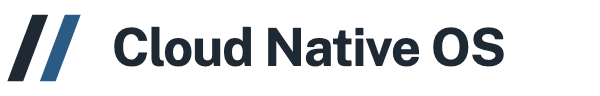
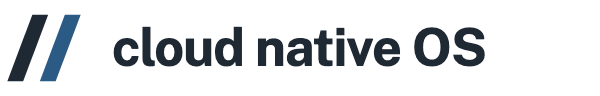
fix(brand): write the name as "cloud native OS"
The brand is "cloud native OS", in lower case except OS. The site, the
docs, the code comments and the lockups used "Cloud Native OS", and the
lockup label was set in capitals. All of them now use "cloud native OS".

The site label no longer forces upper case, and its letter spacing is
reduced to suit lower case. The four lockup PNGs are rendered again from
the SVGs, with Public Sans at the same pixel sizes.

Two places keep the old form: the title of the published talk "What
Should a Cloud Native OS Look Like?", and a dated quote of the original
brief in research/reproducible-machine-state/README.md.

Co-developed-by: Claude Opus 5.5 <noreply@anthropic.com>

Changed region(s): [[0.18, 0.25, 0.84, 0.7188]]

diff --git a/site/why.html b/site/why.html
@@ -1,1 +1,1 @@
-<p>Back in 2023 I joined the Kairos team. At the time I had never heard of immutable operating systems, so I was eager to learn. Beyond the documentation of each project, I could not find many sources. I wanted a bird's-eye view, one that would show me the patterns and not only how each project does things on its own. The first post I read was my colleague Nicolas Vermande's <a href="https://www.spectrocloud.com/blog/k3os-alternatives-the-best-container-os-for-edge-kubernetes">k3OS Alternatives: Top Container OS for Edge Kubernetes</a> on the Spectro Cloud blog. It is a great read if you already know the projects it mentions, but it assumes you do. And if you are reading it today, it has aged.</p><p>Another good source I found was the CNCF <a href="https://github.com/cncf/tag-runtime/blob/main/wgs/spos/charter/index.md">Special Purpose Operating System Working Group</a>, under what was then TAG Runtime. I joined, and I had a great time learning about the different projects. We even put together a couple of panels: <a href="https://www.youtube.com/watch?v=uD-T9LdfvrM">one at KubeCon</a>, and <a href="https://osseu2024.sched.com/event/1ej4e/panel-discussion-do-one-thing-and-do-it-well-special-purpose-oses-apply-the-unix-app-philosophy-to-the-whole-os-danielle-tal-microsoft-mauro-morales-spectro-cloud-felipe-huici-unikraft-gmbh-frederic-crozat-suse-erik-nordmark-zededa">one at Open Source Summit Europe in Vienna</a>. We also met as a birds-of-a-feather group at FOSDEM for three years in a row (<a href="https://archive.fosdem.org/2024/schedule/event/fosdem-2024-3561-special-purpose-operating-systems-the-next-step-in-os-evolution-or-one-trick-ponies-/">2024</a>, <a href="https://archive.fosdem.org/2025/schedule/event/fosdem-2025-6716-special-purpose-operating-systems-meetup-bof/">2025</a>, <a href="https://fosdem.org/2026/schedule/event/GX3DNS-special-purpose_linux_operating_systems_meetup_bof/">2026</a>). When the CNCF restructured its TAGs, the group was closed, and since then I have been looking for ways to keep its spirit alive. Still, none of this gave a newcomer the overview I had wanted back in 2023.</p><p>My first attempt at that overview was a talk at Cloud Native Days Italy in May 2026, <a href="https://cloudnativedaysitaly.org/talk/what-should-a-cloud-native-os-look-like">What Should a Cloud Native OS Look Like?</a>. I realized a talk does not have enough time to cover so many projects in enough detail. It is also much harder not to be biased when speaking in person. In a written document, every claim can link to its source, and separate agents can check each claim against that source. That makes it easier to try to stay objective.</p><p>The closest thing I found to a field-wide view is the kube.today survey, <a href="https://kube.today/immutable-linux-kubernetes-2026">Immutable OS for Kubernetes: Where Theory Meets Operations</a>, with answers from 2,138 practitioners. It was sponsored by Spectro Cloud, my employer, and its disclosure says the sponsor had no input on the questions or the analysis. I think it is of great value, because it shows what people actually do. But it does not help much if you are not sure how to compare these projects, or where to start. That is the gap the Cloud Native OS Pulse tries to close. It is not about sentiment. It records what each project documents and ships, with a source and an evidence label on every cell, plus a few rollback experiments run in VMs.</p><p>It is not a scorecard, and it does not pick a winner. My hope is that you find in it a clear view of what image-based, immutable systems buy you and what they cost, which options are out there, and enough perspective to make an informed choice of your own.</p><p>The Pulse is a rolling release. The header of every page shows the commit and the date it was built from. When a project ships a newer release than the one profiled, its entry carries a badge that says so until I re-validate it. If you spot something wrong, please open a pull request against that profile, or open an issue. Anyone can.</p>
+<p>Back in 2023 I joined the Kairos team. At the time I had never heard of immutable operating systems, so I was eager to learn. Beyond the documentation of each project, I could not find many sources. I wanted a bird's-eye view, one that would show me the patterns and not only how each project does things on its own. The first post I read was my colleague Nicolas Vermande's <a href="https://www.spectrocloud.com/blog/k3os-alternatives-the-best-container-os-for-edge-kubernetes">k3OS Alternatives: Top Container OS for Edge Kubernetes</a> on the Spectro Cloud blog. It is a great read if you already know the projects it mentions, but it assumes you do. And if you are reading it today, it has aged.</p><p>Another good source I found was the CNCF <a href="https://github.com/cncf/tag-runtime/blob/main/wgs/spos/charter/index.md">Special Purpose Operating System Working Group</a>, under what was then TAG Runtime. I joined, and I had a great time learning about the different projects. We even put together a couple of panels: <a href="https://www.youtube.com/watch?v=uD-T9LdfvrM">one at KubeCon</a>, and <a href="https://osseu2024.sched.com/event/1ej4e/panel-discussion-do-one-thing-and-do-it-well-special-purpose-oses-apply-the-unix-app-philosophy-to-the-whole-os-danielle-tal-microsoft-mauro-morales-spectro-cloud-felipe-huici-unikraft-gmbh-frederic-crozat-suse-erik-nordmark-zededa">one at Open Source Summit Europe in Vienna</a>. We also met as a birds-of-a-feather group at FOSDEM for three years in a row (<a href="https://archive.fosdem.org/2024/schedule/event/fosdem-2024-3561-special-purpose-operating-systems-the-next-step-in-os-evolution-or-one-trick-ponies-/">2024</a>, <a href="https://archive.fosdem.org/2025/schedule/event/fosdem-2025-6716-special-purpose-operating-systems-meetup-bof/">2025</a>, <a href="https://fosdem.org/2026/schedule/event/GX3DNS-special-purpose_linux_operating_systems_meetup_bof/">2026</a>). When the CNCF restructured its TAGs, the group was closed, and since then I have been looking for ways to keep its spirit alive. Still, none of this gave a newcomer the overview I had wanted back in 2023.</p><p>My first attempt at that overview was a talk at Cloud Native Days Italy in May 2026, <a href="https://cloudnativedaysitaly.org/talk/what-should-a-cloud-native-os-look-like">What Should a Cloud Native OS Look Like?</a>. I realized a talk does not have enough time to cover so many projects in enough detail. It is also much harder not to be biased when speaking in person. In a written document, every claim can link to its source, and separate agents can check each claim against that source. That makes it easier to try to stay objective.</p><p>The closest thing I found to a field-wide view is the kube.today survey, <a href="https://kube.today/immutable-linux-kubernetes-2026">Immutable OS for Kubernetes: Where Theory Meets Operations</a>, with answers from 2,138 practitioners. It was sponsored by Spectro Cloud, my employer, and its disclosure says the sponsor had no input on the questions or the analysis. I think it is of great value, because it shows what people actually do. But it does not help much if you are not sure how to compare these projects, or where to start. That is the gap the cloud native OS Pulse tries to close. It is not about sentiment. It records what each project documents and ships, with a source and an evidence label on every cell, plus a few rollback experiments run in VMs.</p><p>It is not a scorecard, and it does not pick a winner. My hope is that you find in it a clear view of what image-based, immutable systems buy you and what they cost, which options are out there, and enough perspective to make an informed choice of your own.</p><p>The Pulse is a rolling release. The header of every page shows the commit and the date it was built from. When a project ships a newer release than the one profiled, its entry carries a badge that says so until I re-validate it. If you spot something wrong, please open a pull request against that profile, or open an issue. Anyone can.</p>

diff --git a/site/src/pulse.css b/site/src/pulse.css
@@ -1,6 +1,6 @@
 @import url("https://fonts.googleapis.com/css2?family=Public+Sans:wght@400;600&family=Source+Code+Pro:wght@400;600&family=Source+Serif+4:ital,opsz,wght@0,8..60,400;0,8..60,600;1,8..60,400&display=swap");
 
-/* Cloud Native OS Pulse components. Every colour is a token; no hue names a project. */
+/* cloud native OS Pulse components. Every colour is a token; no hue names a project. */
 
 .pl, .pl * { box-sizing: border-box; }
 .pl { color: var(--ink); background: var(--paper); font-family: var(--font-sans); font-size: 13px; line-height: 18px; }
@@ -260,7 +260,7 @@ th[aria-sort="descending"] .mx-sort::after { content: "\2193"; color: var(--acce
 .page { max-width: 1240px; margin: 0 auto; padding: var(--space-6) var(--space-6) var(--space-12); }
 .page > header { display: grid; gap: var(--space-3); padding-bottom: var(--space-6); }
 .head-top { display: flex; flex-wrap: wrap; justify-content: space-between; gap: var(--space-2); align-items: center; }
-/* Brand: the Cloud Native OS mark with the product name. Ink and accent come from the theme tokens. */
+/* Brand: the cloud native OS mark with the product name. Ink and accent come from the theme tokens. */
 .pl a.brand { text-decoration: none; color: var(--ink); }
 .brand { display: inline-flex; align-items: center; gap: var(--space-2); color: var(--ink); text-decoration: none; margin-right: auto; }
 .brand:hover .brand-name { text-decoration: underline; text-decoration-thickness: 1px; text-underline-offset: 3px; }
@@ -268,7 +268,7 @@ th[aria-sort="descending"] .mx-sort::after { content: "\2193"; color: var(--acce
 .brand .mk-a { fill: var(--ink); }
 .brand .mk-b { fill: var(--accent); }
 .brand-name { display: grid; font: 700 18px/1 var(--font-sans); letter-spacing: -.01em; }
-.brand-name small { font: 600 9px/12px var(--font-sans); letter-spacing: .09em; text-transform: uppercase; color: var(--ink-muted); }
+.brand-name small { font: 600 9px/12px var(--font-sans); letter-spacing: .02em; color: var(--ink-muted); }
 .theme { display: inline-flex; border: 1px solid var(--rule-strong); border-radius: var(--radius-1); overflow: hidden; }
 .theme button { all: unset; cursor: pointer; font: 400 12px/24px var(--font-sans); padding: 0 var(--space-2); color: var(--ink-muted); }
 .theme button + button { border-left: 1px solid var(--rule); }
@@ -295,7 +295,7 @@ th[aria-sort="descending"] .mx-sort::after { content: "\2193"; color: var(--acce
 @media (max-width: 640px) { .page { padding: var(--space-4) var(--space-4) var(--space-8); } .dims { columns: 1; } .pl h1 { font-size: 26px; line-height: 32px; } }
 
 /* ---------- Print ---------- */
-@page { size: A4; margin: 18mm 14mm 16mm; @top-left { content: "Cloud Native OS Pulse 2026"; font: 8pt "Public Sans", Arial, sans-serif; color: #3d3d3d; } @top-right { content: "Data as of 22 Sep 2026"; font: 8pt "Public Sans", Arial, sans-serif; color: #3d3d3d; } @bottom-left { content: "Illustrative, data under fact-fix"; font: 8pt "Public Sans", Arial, sans-serif; color: #3d3d3d; } @bottom-right { content: "Page " counter(page) " of " counter(pages); font: 8pt "Public Sans", Arial, sans-serif; color: #3d3d3d; } }
+@page { size: A4; margin: 18mm 14mm 16mm; @top-left { content: "cloud native OS Pulse 2026"; font: 8pt "Public Sans", Arial, sans-serif; color: #3d3d3d; } @top-right { content: "Data as of 22 Sep 2026"; font: 8pt "Public Sans", Arial, sans-serif; color: #3d3d3d; } @bottom-left { content: "Illustrative, data under fact-fix"; font: 8pt "Public Sans", Arial, sans-serif; color: #3d3d3d; } @bottom-right { content: "Page " counter(page) " of " counter(pages); font: 8pt "Public Sans", Arial, sans-serif; color: #3d3d3d; } }
 @page wide { size: A4 landscape; margin: 14mm 10mm 14mm; }
 @media print {
   .pl { font-size: 9pt; line-height: 1.35; }

diff --git a/site/docs/cover.html b/site/docs/cover.html
@@ -16,7 +16,7 @@
   <rect class="b-line" x="288" y="40" width="672" height="2"/>
   <g class="dots"></g>
 </svg>
-<div class="cv-name">Cloud Native OS Pulse</div>
+<div class="cv-name">cloud native OS Pulse</div>
 <div class="cv-tag">A sourced comparison with no score and no winner. Ink on paper, every claim labelled.</div>
 </div>
 <style>

diff --git a/site/src/pulse.js b/site/src/pulse.js
@@ -1,4 +1,4 @@
-/* Cloud Native OS Pulse: matrix sort and filter, group-rule and placement switches.
+/* cloud native OS Pulse: matrix sort and filter, group-rule and placement switches.
    No dependencies. Works on any table built by build.py (class "mx"). */
 (function () {
   "use strict";

diff --git a/site/build.py b/site/build.py
@@ -1,5 +1,5 @@
 #!/usr/bin/env python3
-"""Build the Cloud Native OS Pulse sample site and design-system files from the YAML profiles.
+"""Build the cloud native OS Pulse sample site and design-system files from the YAML profiles.
 
 Usage: build.py <projects-dir> <out-dir>
 
@@ -1510,7 +1510,7 @@ def what_is():
             ("Main job", "Anything", "Running cloud native workloads")]
     table = ('<table class="cmp"><thead><tr><th scope="col"></th><th scope="col">%s</th><th scope="col">%s</th></tr></thead><tbody>%s</tbody></table>'
              '<p class="t-meta" id="cmp-note">* Only part of the OS is read-only, and which part varies by system. See %s in the glossary.</p>'
-             % (g("General-purpose OS", "general-purpose-os"), g("Cloud native OS", "cloud-native-os"),
+             % (g("General-purpose OS", "general-purpose-os"), g("cloud native OS", "cloud-native-os"),
                 "".join('<tr><th scope="row">%s</th><td>%s</td><td>%s</td></tr>' % r for r in rows), g("Immutable", "immutable")))
     rules = [("Versioned whole-system updates", "One version names the whole OS, and the OS updates as that one unit, never package by package on a running node. It is enough that the project documents a way to run it like this."),
              ("Immutable at runtime", "The OS part, the root or <code>/usr</code>, is read-only on a running node."),
@@ -1547,7 +1547,7 @@ def what_is():
 
 GLOSSARY = [
     ("General-purpose OS", "An operating system built to run anything, such as Ubuntu, Debian or Fedora. It is installed once and then maintained by changing it in place for the rest of its life."),
-    ("Cloud native OS", "In the Pulse, an OS that meets the five inclusion criteria: versioned whole-system updates, read-only OS files at runtime, rollback, declarative provisioning, and documented Kubernetes use."),
+    ("cloud native OS", "In the Pulse, an OS that meets the five inclusion criteria: versioned whole-system updates, read-only OS files at runtime, rollback, declarative provisioning, and documented Kubernetes use."),
     ("In-place upgrade", "An upgrade that changes the running system piece by piece, for example package by package. The result depends on the state the machine was in before."),
     ("Atomic upgrade", "An upgrade that applies the new version as a whole or not at all. If it fails, the old version is still intact."),
     ("Image-based", "The OS is built ahead of time as one complete image, and that image is what gets installed and updated."),
@@ -1650,7 +1650,7 @@ def misconceptions():
 
 def who():
     return ('<div class="prose">'
-            '<p>I am <a href="https://mauromorales.com/">Mauro Morales</a>, the person behind the Cloud Native OS Pulse. '
+            '<p>I am <a href="https://mauromorales.com/">Mauro Morales</a>, the person behind the cloud native OS Pulse. '
             'I work as a Staff Engineer at <a href="https://www.spectrocloud.com/">Spectro Cloud</a>, and I am one of the maintainers of '
             '<a href="https://kairos.io/">Kairos</a> and <a href="https://hadron-linux.io/">Hadron</a>, two of the entries. '
             'I have also done quite a lot of <a href="https://mauromorales.com/public-speaking">public speaking</a> promoting these projects. '
@@ -1853,7 +1853,7 @@ def add_toc(page, groups=None):
         else:
             out.append('<div class="toc-g"><p class="toc-group">%s</p></div>' % head)
     nav = ('<button class="toc-toggle no-print" type="button" aria-expanded="false" aria-controls="toc" aria-label="Show contents" title="Show contents"><span aria-hidden="true">&raquo;</span></button>'
-           '<nav id="toc" class="toc no-print" aria-label="Contents"><a class="toc-top" href="#top">Cloud Native OS Pulse guide</a>%s</nav>' % "".join(out))
+           '<nav id="toc" class="toc no-print" aria-label="Contents"><a class="toc-top" href="#top">cloud native OS Pulse guide</a>%s</nav>' % "".join(out))
     return page.replace('<div class="pl page" id="top">', nav + '<div class="pl page" id="top">', 1)
 
 
@@ -1879,15 +1879,15 @@ def tabs(current):
     return '<nav class="tabs no-print" aria-label="Pages">%s%s</nav>' % (tab("index.html", "Matrix", "matrix"), tab("guide.html", "Guide", "guide"))
 
 
-# The Cloud Native OS mark, two slashes (brand/README.md). Drawn inline so it follows the page theme.
+# The cloud native OS mark, two slashes (brand/README.md). Drawn inline so it follows the page theme.
 MARK_PATHS = ('<path class="mk-a" d="M1 22H5.75L13.25 2H8.5Z"/>', '<path class="mk-b" d="M10.75 22H15.5L23 2H18.25Z"/>')
 
 
 def brand():
-    """The product lockup: the mark, a small Cloud Native OS label, and Pulse. It links to the matrix page."""
-    return ('<a class="brand" href="index.html" aria-label="Cloud Native OS Pulse, home">'
+    """The product lockup: the mark, a small cloud native OS label, and Pulse. It links to the matrix page."""
+    return ('<a class="brand" href="index.html" aria-label="cloud native OS Pulse, home">'
             '<svg class="mark" viewBox="0 0 24 24" width="28" height="28" aria-hidden="true">%s%s</svg>'
-            '<span class="brand-name"><small>Cloud Native OS</small>Pulse</span></a>' % MARK_PATHS)
+            '<span class="brand-name"><small>cloud native OS</small>Pulse</span></a>' % MARK_PATHS)
 
 
 def favicon_links():
@@ -1946,7 +1946,7 @@ def site(P, tok, css, js):
 <header>
   {head_top("matrix")}
   <span class="eyebrow build-eyebrow">__BUILD__</span>
-  <h1>Cloud Native OS Pulse</h1>
+  <h1>cloud native OS Pulse</h1>
   <p class="tagline">A sourced comparison of cloud native operating systems. Every cell carries an evidence label and a source. Click a project name to open its data sheet.</p>
   <p class="guide-link"><a href="guide.html">Read the guide: what a cloud native OS is, how this was built, and how to read the matrix.</a></p>
   <p class="byline-coi">I am one of the maintainers of Kairos and Hadron, two of the entries, and I work for Spectro Cloud. See <a href="#h-who">Who is behind it</a>.</p>
@@ -1985,7 +1985,7 @@ def site(P, tok, css, js):
 <header>
   {head_top("guide")}
   <span class="eyebrow build-eyebrow">__BUILD__</span>
-  <h1>Cloud Native OS Pulse guide</h1>
+  <h1>cloud native OS Pulse guide</h1>
   <p class="tagline">What a cloud native OS is, how the Pulse was made, and how to read the matrix.</p>
   <p class="byline">by Mauro Morales, CNCF Ambassador</p>
   <p class="byline-coi">I am one of the maintainers of Kairos and Hadron, two of the entries, and I work for Spectro Cloud. See <a href="#h-who">Who is behind it</a>.</p>
@@ -2055,7 +2055,7 @@ def site(P, tok, css, js):
   <p class="lede">Method, stake, and how to correct the record.</p>
   {made(P)}
   <div style="margin-top:var(--space-8)">{fix_callout()}</div>
-  <p class="star-cta">If the Cloud Native OS Pulse helps you, please <a href="https://github.com/cloudnativeos-org/pulse">star it on GitHub</a>. It helps more people find it.</p>
+  <p class="star-cta">If the cloud native OS Pulse helps you, please <a href="https://github.com/cloudnativeos-org/pulse">star it on GitHub</a>. It helps more people find it.</p>
 </section>
 
 <section class="sec" aria-labelledby="h-why">
@@ -2119,8 +2119,8 @@ def site(P, tok, css, js):
 <script>{js}</script>
 </body></html>"""
 
-    return (document("Cloud Native OS Pulse", "Sample pages for the Cloud Native OS Pulse. Illustrative, data under fact-fix.", redirect, index_body),
-            document("Cloud Native OS Pulse guide", "The guide to the Cloud Native OS Pulse: what a cloud native OS is, how it was made, and how to read the matrix.",
+    return (document("cloud native OS Pulse", "Sample pages for the cloud native OS Pulse. Illustrative, data under fact-fix.", redirect, index_body),
+            document("cloud native OS Pulse guide", "The guide to the cloud native OS Pulse: what a cloud native OS is, how it was made, and how to read the matrix.",
                      '<script>document.documentElement.classList.add("js")</script>', guide_body))
 
 
@@ -2166,7 +2166,7 @@ def main():
     except Exception:
         sha = "unknown"
     gen = dt.date.today().isoformat()
-    css = css.replace('content: "Cloud Native OS Pulse 2026"', 'content: "Cloud Native OS Pulse"')
+    css = css.replace('content: "cloud native OS Pulse 2026"', 'content: "cloud native OS Pulse"')
     css = css.replace('content: "Data as of 22 Sep 2026"', 'content: "Data as of %s"' % fmt_date(data_dates(P)[1]))
     css = css.replace('content: "Illustrative, data under fact-fix"', 'content: "Generated %s from commit %s. Illustrative, data under fact-fix"' % (gen, sha))
     index_page, guide_page = site(P, tok, css, js)
@@ -2179,7 +2179,7 @@ def main():
     head, rest = page.split("<head>", 1)
     inner_head, body = rest.split("</head>", 1)
     inner_head = inner_head.replace('<meta charset="utf-8"><meta name="viewport" content="width=device-width, initial-scale=1">', "")
-    inner_head = inner_head.replace("<title>Cloud Native OS Pulse</title>", "<title>OS Pulse Sample Pages</title>")
+    inner_head = inner_head.replace("<title>cloud native OS Pulse</title>", "<title>OS Pulse Sample Pages</title>")
     body = body.replace("<body>", "").replace("</body></html>", "")
     open(os.path.join(out, "site", "artifact.html"), "w").write(inner_head + body)
     try:

diff --git a/site/ds.py b/site/ds.py
@@ -118,7 +118,7 @@ def write(P, tok, css, js, out, b):
     now = dt.datetime.now(dt.timezone.utc).replace(microsecond=0).isoformat().replace("+00:00", "Z")
     index = {
         "v": 3, "layout": "files", "createdOnFiles": {"v": 1, "at": now},
-        "title": "Cloud Native OS Pulse", "namespace": "Pulse", "libraries": [],
+        "title": "cloud native OS Pulse", "namespace": "Pulse", "libraries": [],
         "sections": {}, "groups": [], "assetGroups": {}, "blobs": {}, "docs": {"sections": []},
         "lastChange": {"by": "Mauro Morales", "at": now, "via": "Claude Code", "note": "First version: tokens, components, sample previews from the 2026 profiles."},
     }

diff --git a/site/content.py b/site/content.py
@@ -1,4 +1,4 @@
-"""Reader-route content for the Cloud Native OS Pulse: "Looks alike, differs on" pairs and
+"""Reader-route content for the cloud native OS Pulse: "Looks alike, differs on" pairs and
 "Start here" blocks. Data only, plus two render functions that produce the same markup as
 build.py's sample pair() and start_here().
 

diff --git a/tools/validate_profiles.py b/tools/validate_profiles.py
@@ -1,5 +1,5 @@
 #!/usr/bin/env python3
-"""Validate Cloud Native OS Pulse project profiles.
+"""Validate cloud native OS Pulse project profiles.
 
 Usage:
     python3 tools/validate_profiles.py [PROFILE_DIR ...]

diff --git a/docs/maintainer-invite.md b/docs/maintainer-invite.md
@@ -1,8 +1,8 @@
-Subject: {project} in the Cloud Native OS Pulse: could you check the facts?
+Subject: {project} in the cloud native OS Pulse: could you check the facts?
 
 Hi {name},
 
-I am putting together the Cloud Native OS Pulse, a sourced comparison of cloud native operating systems. {project} is one of the entries. Before I release it, I would like someone who knows the project to check that it is represented correctly and fairly. Up front: I am one of the maintainers of Kairos and Hadron, two of the other entries, and I work for Spectro Cloud. That is why every project gets this same request, Kairos and Hadron included.
+I am putting together the cloud native OS Pulse, a sourced comparison of cloud native operating systems. {project} is one of the entries. Before I release it, I would like someone who knows the project to check that it is represented correctly and fairly. Up front: I am one of the maintainers of Kairos and Hadron, two of the other entries, and I work for Spectro Cloud. That is why every project gets this same request, Kairos and Hadron included.
 
 That is the whole request. It is not a request to endorse the Pulse, to agree with how it is organised, or to review any other project. Correcting a fact about {project} does not mean you agree with anything else in it, and I will never present it as agreement. It should take about fifteen minutes, and saying no is completely fine.
 

diff --git a/brand/README.md b/brand/README.md
@@ -1,7 +1,7 @@
 # Brand
 
-The mark of Cloud Native OS is two slashes, `//`: one in ink, one in the accent
-blue. Pulse is a product of Cloud Native OS, so it uses the same mark and adds
+The mark of cloud native OS is two slashes, `//`: one in ink, one in the accent
+blue. Pulse is a product of cloud native OS, so it uses the same mark and adds
 its name. A later product does the same, with no new logo.
 
 ## Files
@@ -14,8 +14,8 @@ its name. A later product does the same, with no new logo.
 | `favicon.svg` | Browser icon. Switches to the dark colours with the system theme |
 | `favicon-32.png` | Browser icon for clients that do not read SVG |
 | `apple-touch-icon.png` | 180 px home-screen icon, on the light paper background |
-| `lockup-parent-light.svg`, `-dark.svg` (and `.png`) | The mark with "Cloud Native OS" |
-| `lockup-pulse-light.svg`, `-dark.svg` (and `.png`) | The mark with a small "CLOUD NATIVE OS" label above "Pulse" |
+| `lockup-parent-light.svg`, `-dark.svg` (and `.png`) | The mark with "cloud native OS" |
+| `lockup-pulse-light.svg`, `-dark.svg` (and `.png`) | The mark with a small "cloud native OS" label above "Pulse" |
 
 The lockup SVGs set their text in Public Sans and fall back to a system sans
 serif. Where the font cannot be relied on (a README, a slide), use the PNGs,

diff --git a/research/reproducible-machine-state/profiles/azure-linux-hyperscaler-case-study.md b/research/reproducible-machine-state/profiles/azure-linux-hyperscaler-case-study.md
@@ -32,7 +32,7 @@ weekly regardless.
 ## Why this document is shaped the way it is
 
 No standardized project-profile template survives from the methodology plan — that ticket was closed and
-superseded by the Cloud Native OS Pulse (the Pulse brief) before it produced one. the platform-profile task (NixOS) and the platform-profile task
+superseded by the cloud native OS Pulse (the Pulse brief) before it produced one. the platform-profile task (NixOS) and the platform-profile task
 (Unikraft) each hit the same gap and each designed a structure fitting their own question,
 recording that choice in-doc. Same precedent here.
 

diff --git a/research/reproducible-machine-state/profiles/unikraft-boundary-case.md b/research/reproducible-machine-state/profiles/unikraft-boundary-case.md
@@ -11,7 +11,7 @@ Research date: 2026-09-16. Versions examined: Unikraft core `v0.21.0` (Ijiraq, r
 ## Status and structure
 
 This is not a survey. A compact fourteen-dimension factual profile of Unikraft already
-exists as part of the Cloud Native OS Pulse 2026
+exists as part of the cloud native OS Pulse 2026
 (, file
 `data/projects/unikraft.yaml`, unmerged on `feat/issue-813-pulse-profiles`),
 and this document does not repeat it. Where the Pulse establishes a fact, this document
